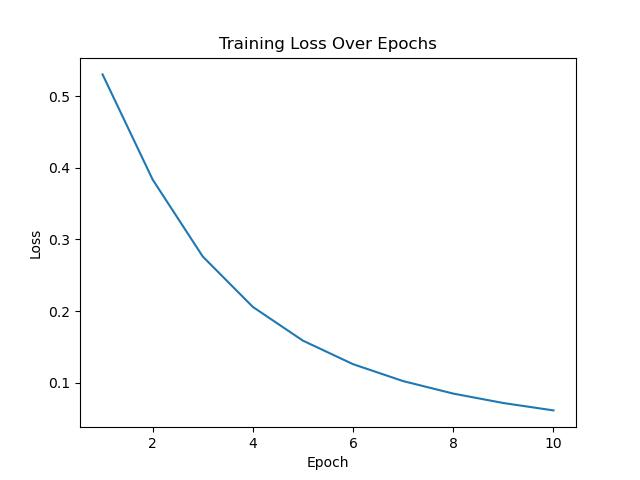
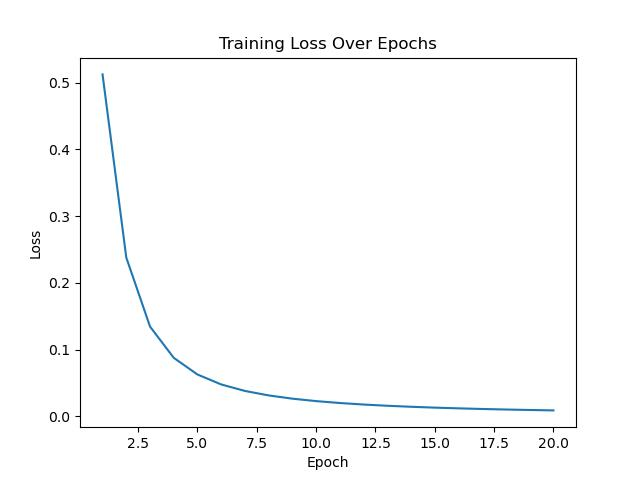
Add confusion matrix

diff --git a/Final/CNN.py b/Final/CNN.py
@@ -134,16 +134,42 @@ class CNN:
         prediction = self.forward(img_data)
         return prediction.index(max(prediction))
     
-    def predict_folder(self, image_folder: str, label_file: str) -> float:
+    def predict_folder(self, image_folder: str, label_file: str) -> Tuple[float, List[List[int]]]:
         images, labels = self.load_folder(image_folder, label_file)
         correct = 0
         total = len(images)
+        confusion_matrix = [[0, 0], [0, 0]]
         
         for img, label in zip(images, labels):
             prediction = self.forward(img)
             predicted_class = prediction.index(max(prediction))
+            confusion_matrix[label][predicted_class] += 1
             if predicted_class == label:
                 correct += 1
         
-        accuracy = correct / total
-        return accuracy
+        accuracy = correct / total if total > 0 else 0.0
+        return accuracy, confusion_matrix
+    
+    def plot_confusion_matrix(self, confusion_matrix: List[List[int]], classes: List[str] = ['0', '1']):
+        plt.figure(figsize=(6, 6))
+        max_value = max(max(row) for row in confusion_matrix)
+        im = plt.imshow(confusion_matrix, interpolation='nearest', cmap=plt.cm.Blues)
+        plt.colorbar(im)
+        
+        plt.title('Confusion Matrix')
+        tick_marks = list(range(len(classes)))
+        plt.xticks(tick_marks, classes)
+        plt.yticks(tick_marks, classes)
+        
+        thresh = max_value / 2.
+        for i in range(len(classes)):
+            for j in range(len(classes)):
+                plt.text(j, i, str(confusion_matrix[i][j]),
+                         horizontalalignment="center",
+                         color="white" if confusion_matrix[i][j] > thresh else "black")
+        
+        plt.ylabel('True Label')
+        plt.xlabel('Predicted Label')
+        plt.tight_layout()
+        plt.savefig("plots/Confusion_Matrix.jpg")
+        plt.show()

diff --git a/Final/main.py b/Final/main.py
@@ -1,6 +1,8 @@
 from CNN import CNN
 
-# Change to 'Final' directory before run
+'''
+Change to 'Final' directory before run
+'''
 
 if __name__ == "__main__":
     train_folder = "miniMNIST" 
@@ -16,9 +18,11 @@ if __name__ == "__main__":
     images, labels = cnn.load_folder(train_folder, train_label)
 
     # Train
-    cnn.train(images, labels, epochs=10, learning_rate=0.01)
+    cnn.train(images, labels, epochs=20, learning_rate=0.01)
     cnn.plot_loss()
 
     # Predict
-    accuracy = cnn.predict_folder(test_folder, test_label)
+    accuracy, confusion_matrix = cnn.predict_folder(test_folder, test_label)
+    print(confusion_matrix)
     print(f"Accuracy: {accuracy:.4f}")
+    cnn.plot_confusion_matrix(confusion_matrix)
